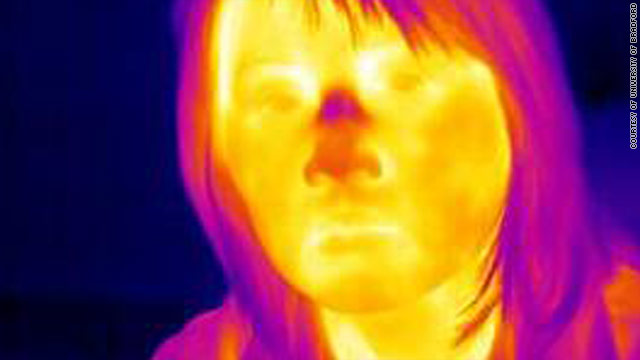
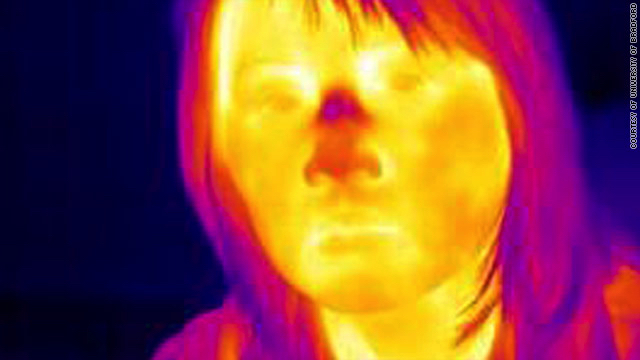
added stuff
plouse

diff --git a/test.py b/test.py
@@ -28,7 +28,7 @@ blobs = []
 filled = []
 blobIDs = []
 
-im = Image.open("thermal.jpg")
+im = Image.open("thermalpng.png")
 pix = im.load()
 x = 100
 y = 200
